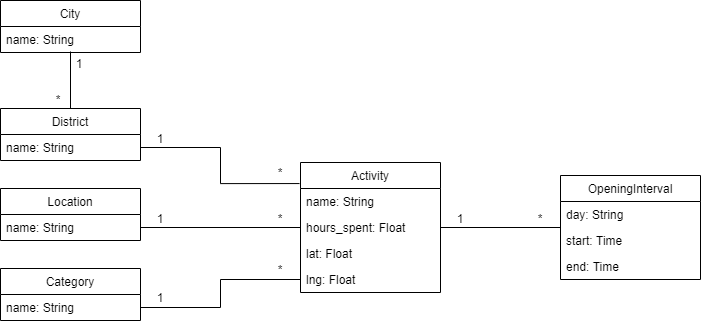
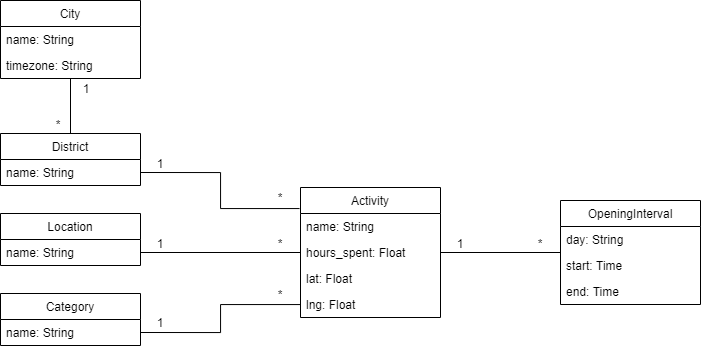
Removed day from query, calculating it automatically

diff --git a/model.py b/model.py
@@ -2,6 +2,8 @@ from peewee import *
 
 db = SqliteDatabase('cartotest.db')
 
+WEEK_DAYS = ['mo', 'tu', 'we', 'th', 'fr', 'sa', 'su']
+
 
 class Category(Model):
     name = CharField()
@@ -19,6 +21,7 @@ class Location(Model):
 
 class City(Model):
     name = CharField()
+    timezone = CharField()
 
     class Meta:
         database = db
@@ -43,7 +46,7 @@ class Activity(Model):
 
     def _get_opening_hours_json(self):
         result = {}
-        for day in ['mo', 'tu', 'we', 'th', 'fr', 'sa', 'su']:
+        for day in WEEK_DAYS:
             intervals = []
             for oh in self.opening_hours.where(OpeningInterval.day == day).order_by(OpeningInterval.start):
                 intervals.append(f'{oh.start}-{oh.end}')

diff --git a/activity.py b/activity.py
@@ -1,8 +1,9 @@
 import datetime
 
+import pytz
 from flask import abort
 
-from model import Category, Location, District, Activity, OpeningInterval
+from model import Category, Location, District, Activity, OpeningInterval, WEEK_DAYS
 
 
 def _get_item_by_name(cls, name):
@@ -39,7 +40,9 @@ def query(**kwargs):
     }
 
 
-def recommend(day, time, category):
+def recommend(time, category):
+    day = datetime.datetime.now(pytz.timezone('Europe/Madrid'))  # TODO Get the specific city timezone
+    day = WEEK_DAYS[day.weekday()]
     start, end = map(
         lambda x: datetime.datetime.strptime(x, '%H:%M').time(),
         time.split('-')

diff --git a/populate_db.py b/populate_db.py
@@ -7,8 +7,11 @@ def create_tables():
     db.create_tables([Category, Location, City, District, Activity, OpeningInterval])
 
 
-def populate(city, file_path):
-    city = City.create(name=city)
+def populate(city, timezone, file_path):
+    city = City.create(
+        name=city,
+        timezone=timezone
+    )
 
     with open(file_path) as file:
         activities = json.load(file)
@@ -44,4 +47,4 @@ def populate(city, file_path):
 
 if __name__ == '__main__':
     create_tables()
-    populate('madrid', 'madrid.json')
+    populate('madrid', 'Europe/Madrid', 'madrid.json')

diff --git a/README.md b/README.md
@@ -129,7 +129,7 @@ According to the problem statement, two calls have been defined and implemented:
 
 * `/api/activities`: Receives three optional parameters: `category`, `location` and `district`, indicating the filtering criteria. This call returns a list with the activities matching the specified requirements. If no parameters are received, it will list all the activities, and in case there is no match, the value returned will be an empty list.
 
-* `/api/recommend`: Receives three parameters `day`, `time` and `category`, indicating the day of the week, the time frame (`10:00-12:00` for example), and the category of the activity respectively. This call returns either an activity according to the problem statement, or a HTTP response with code 404 in case no activity can be recommended according to the parameters defined.
+* `/api/recommend`: Receives two parameters: `time` and `category`, indicating the time frame (`10:00-12:00` for example), and the category of the activity respectively. The day of the week will be automatically deducted using the current date. This call returns either an activity according to the problem statement, or a HTTP response with code 404 in case no activity can be recommended according to the parameters defined.
 
 In both calls the activities are defined using the GeoJSON format, as the statement indicates. A property named `geojson` has been implemented in the Activity class, in order to map them to that format.
 
@@ -137,7 +137,7 @@ The API behaviour has been implemented in the file *activity.py*. as mentioned b
 
 The `query' function is very simple when using peewee as ORM, since it does not execute a query to the database until its objects are directly accessed (indexing or by a loop, for instance). The method starts creating a query for all the activities. Then, it checks if each of the parameters has been included, in which case, adds a corresponding *WHERE* clause to the query. Finally, the method returns a GeoJSON object of type *FeatureCollection*, whose features are the list of activities matching the query, mapped to GeoJSON.
 
-The function `recommed` is a bit more complicated, since it has to deal with time frames. Anyway, it just a question of declaring the right SQL query and letting it do the job. First, the function parses the parameters, splitting the time frame into `start` and `end` time objects, and getting the Category object. Then, we need to make a *JOIN* between the tables *Activity* and *OpeningInterval*, in order to check the opening times of the activities. The activities need to have the indicated category, and the opening intervals need to be for the indicated day, so we add those conditions to the query.
+The function `recommed` is a bit more complicated, since it has to deal with time frames. Anyway, it just a question of declaring the right SQL query and letting it do the job. First, the function parses the parameters, splitting the time frame into `start` and `end` time objects, and getting the Category object. Then, we need to make a *JOIN* between the tables *Activity* and *OpeningInterval*, in order to check the opening times of the activities. The activities need to have the indicated category, and the opening intervals need to be for today's day of the week, so we add those conditions to the query.
 
 Here is where the harder part begins. We have to indicate that the activities must be able to be completed in the given time frame. We can split the cases where this is possible in two:
 
@@ -145,3 +145,6 @@ Here is where the harder part begins. We have to indicate that the activities mu
 * The user's time frame starts before the activity opening: The user has to wait until the activity opens, and then their visit begins. There has to be enough time to complete it before the user's time frame ends. In this case there is no need to check if there is enough time before the activity closes, since in this case the visit is starting right at the moment the activity opens.
 
 Finally, according to the problem statement, in case there is more than one possibility, the activity with the longest visit time has to be returned, so we order the query results decreasingly, and return the first item. If the query result was empty, the function returns the HTTP code 404, as indicated before.
+
+### Additional questions
+
